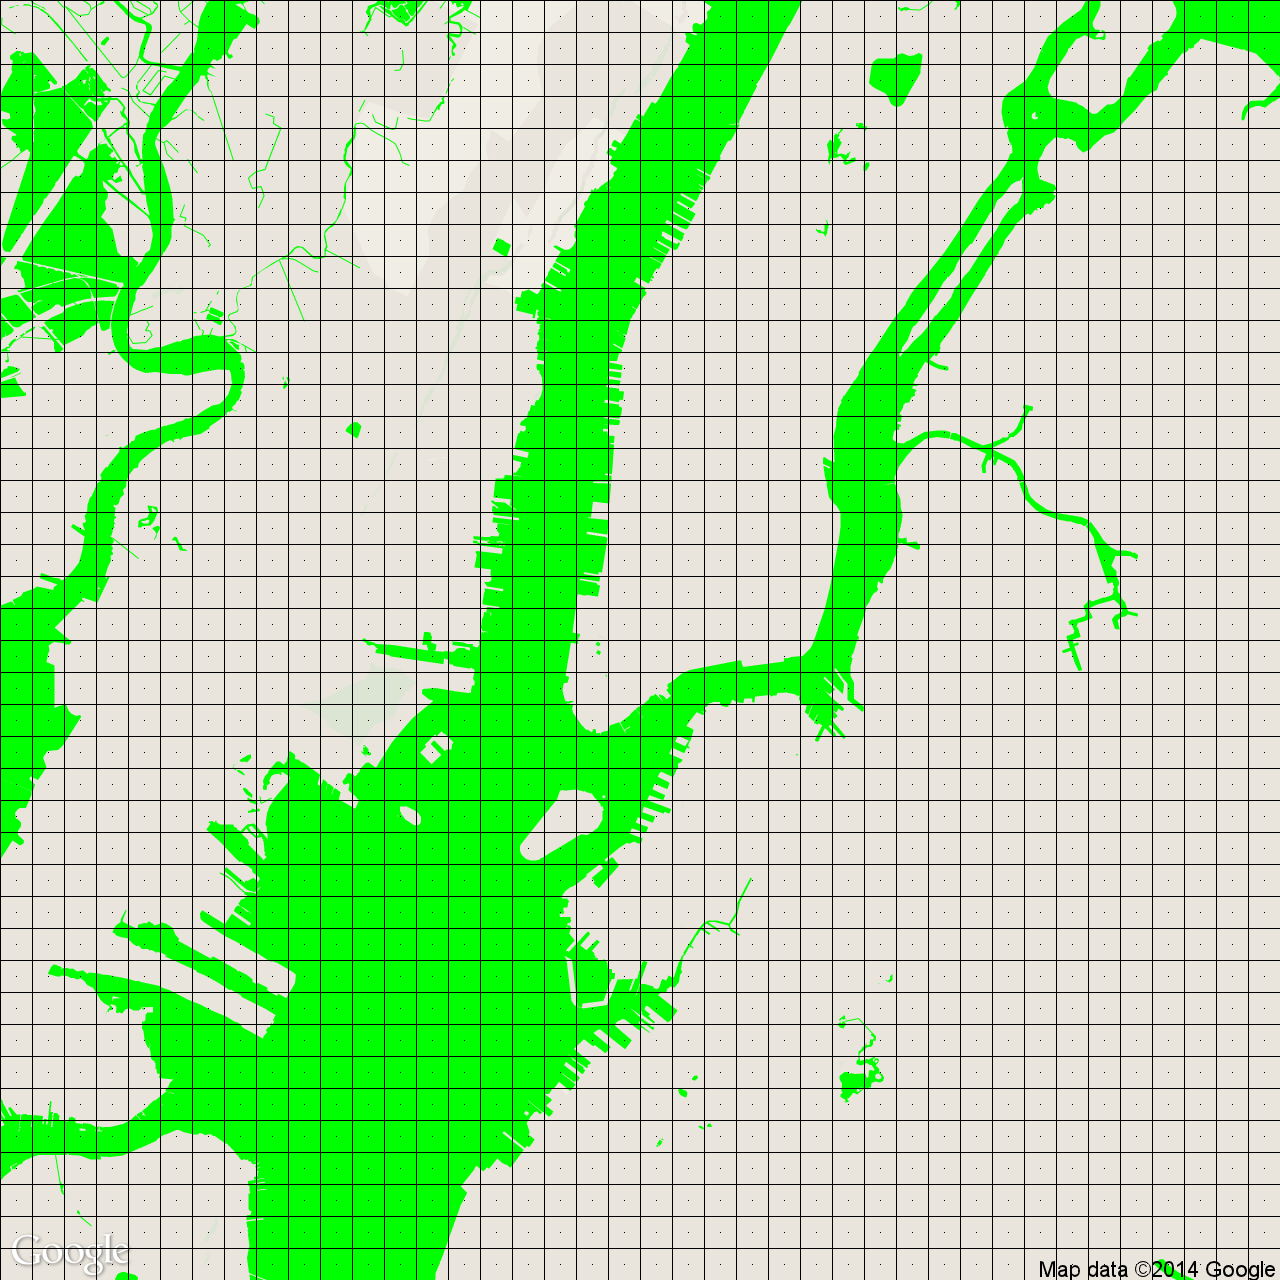
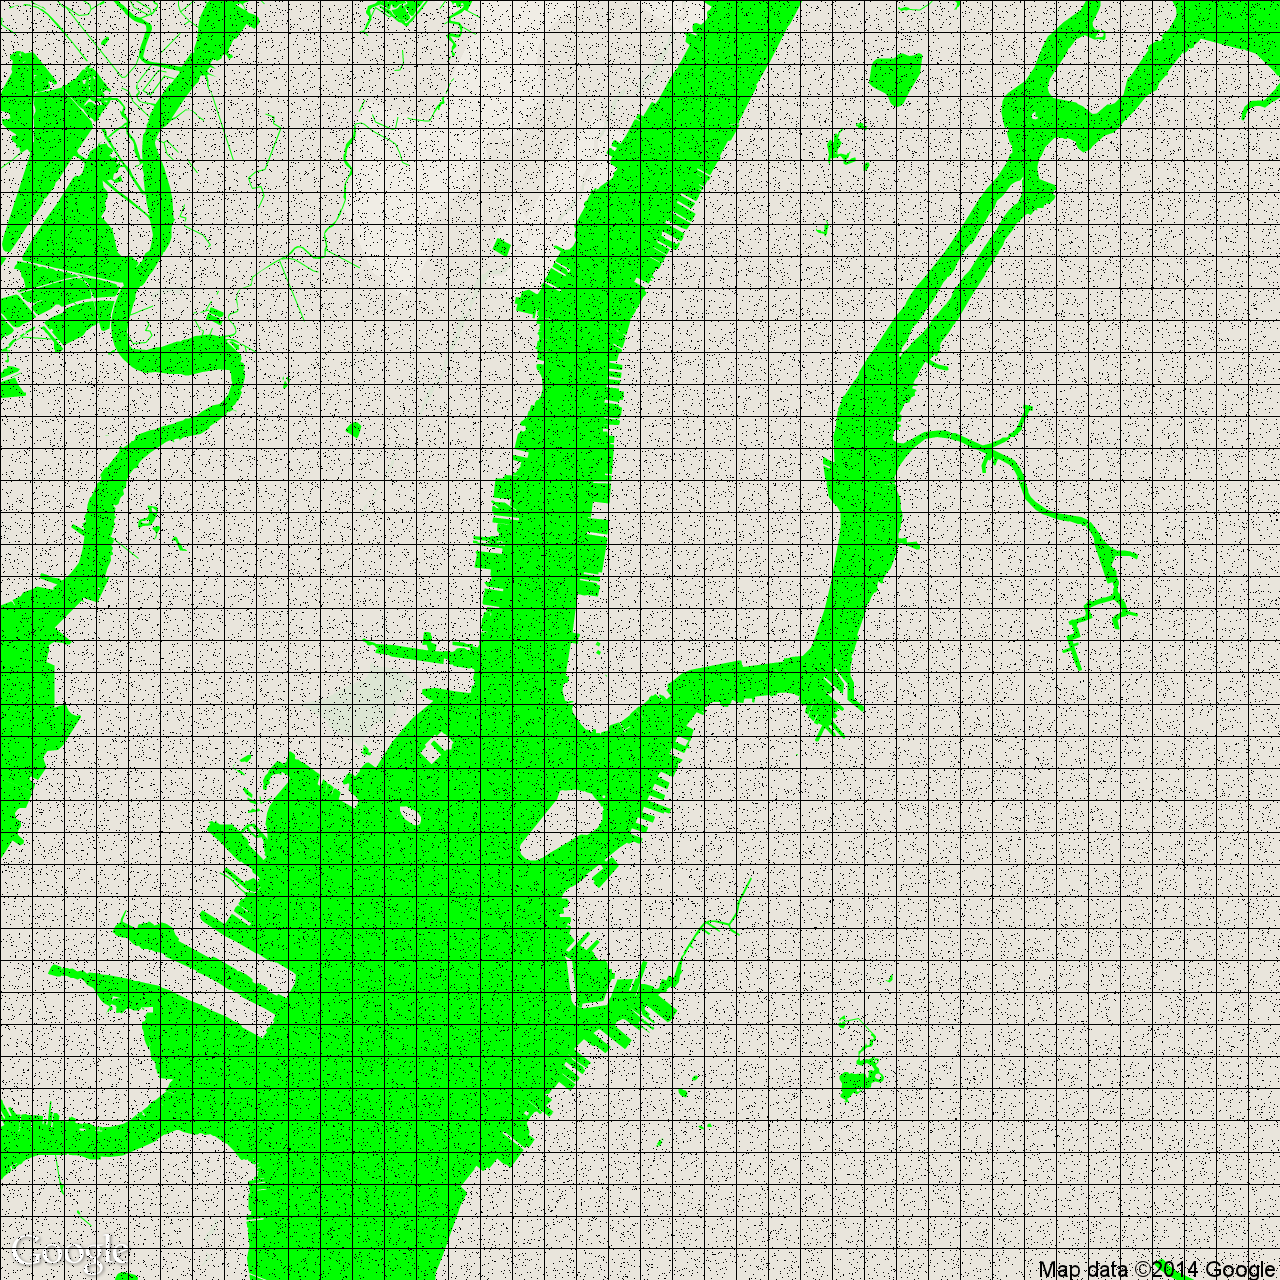
monte carlo first try working

diff --git a/game.map.js b/game.map.js
@@ -22,9 +22,17 @@ var tileStats = function(img) {
 	this.img = img;
 	this.totalN = 0;
 	this.counter = [];
-	
+	this.counter[0] = 0;
+	this.counter[1] = 0;	
 
 
+};
+
+tileStats.prototype.printStats = function() {
+console.log("Stats:");
+console.log("total: " + this.totalN);
+console.log("[1]: "+this.counter[0]);
+console.log("[0]: "+this.counter[1]);
 };
 
 tileStats.prototype.insert = function(value){
@@ -46,7 +54,16 @@ return 0;
 
 tileStats.prototype.genTileValue = function(errTol) { //out of 100
 console.log("tileStat total : " + this.totalN);
+var ratio = (this.counter[1])/this.totalN;
+console.log("ratio: " + ratio);
+
+if(ratio >(errTol/100)){
+return 1;
+}else{
 return 0;
+}
+
+//return 0;
 };
 //genStats.prototype.
 var game_map = function( game_instance ) {
@@ -236,7 +253,46 @@ for (var i = 0; i < (1); i++){
 return stats.genTileValue();
 }
 
+game_map.prototype.monteCarloTile = function(img, x, y, tilesize, checknumber) {
 
+var tileXLeftTop = x*tilesize;
+var tileYLeftTop = y*tilesize;
+
+var stats = new tileStats(img);
+
+this.createTileBorder(img,tileXLeftTop,tileYLeftTop,tilesize);
+for(var i = 0; i < checknumber; i++){
+var pointX = tileXLeftTop + parseInt(tilesize*Math.random());
+var pointY = tileYLeftTop + parseInt(tilesize*Math.random());
+console.log("X: " + pointX + "Y: " + pointY);
+var hex = this.pixelToHex(img,pointX,pointY);
+
+var tileVal = this.hexToTile(hex);
+
+this.changePixelColor(img,pointX,pointY,0,0,0,255);
+
+
+stats.insert(tileVal);
+
+}
+
+stats.printStats();
+
+return stats.genTileValue(5);
+};
+
+game_map.prototype.createTileBorder = function(img, tx,ty,tilesize){
+
+for(var i = 0;i<tilesize;i++){
+this.changePixelColor(img,tx+i,ty,0,0,0,255);
+}
+
+for(var i = 0;i<tilesize;i++){
+this.changePixelColor(img,tx,ty+i,0,0,0,255);
+}
+
+
+};
 
 game_map.prototype.server_generateMapFromBuffer = function(img,tilesize){
 
@@ -246,9 +302,14 @@ for (var i = 0; i < (img.height/tilesize); i++){
 	map[i] = [];
 	for(var j = 0; j < (img.width/tilesize); j++){
 		
-		map[i][j] = this.server_chooseTileFromBuffer(img, j, i, tilesize);
+//		map[i][j] = this.server_chooseTileFromBuffer(img, j, i, tilesize);
 
 //		map[i][j] = this.server_iGenTile(img, j, i, tilesize);
+
+//		this.createTileBorder(tilesize);
+
+		map[i][j] = this.monteCarloTile(img, j, i, tilesize, 40);
+
 	}	
 
 }
